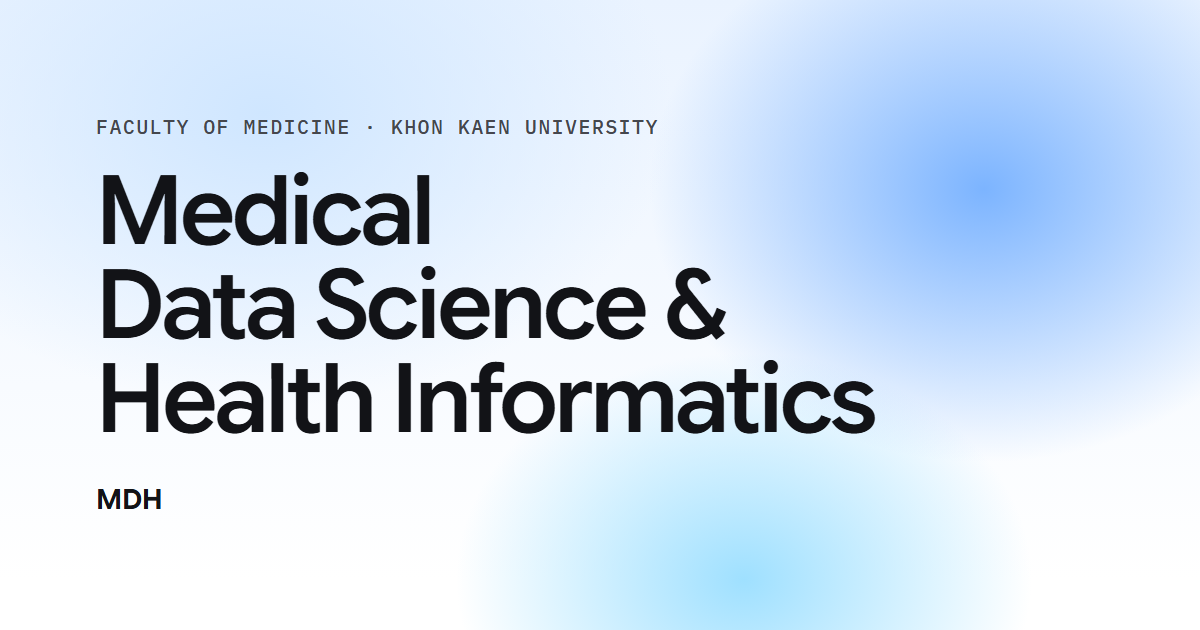
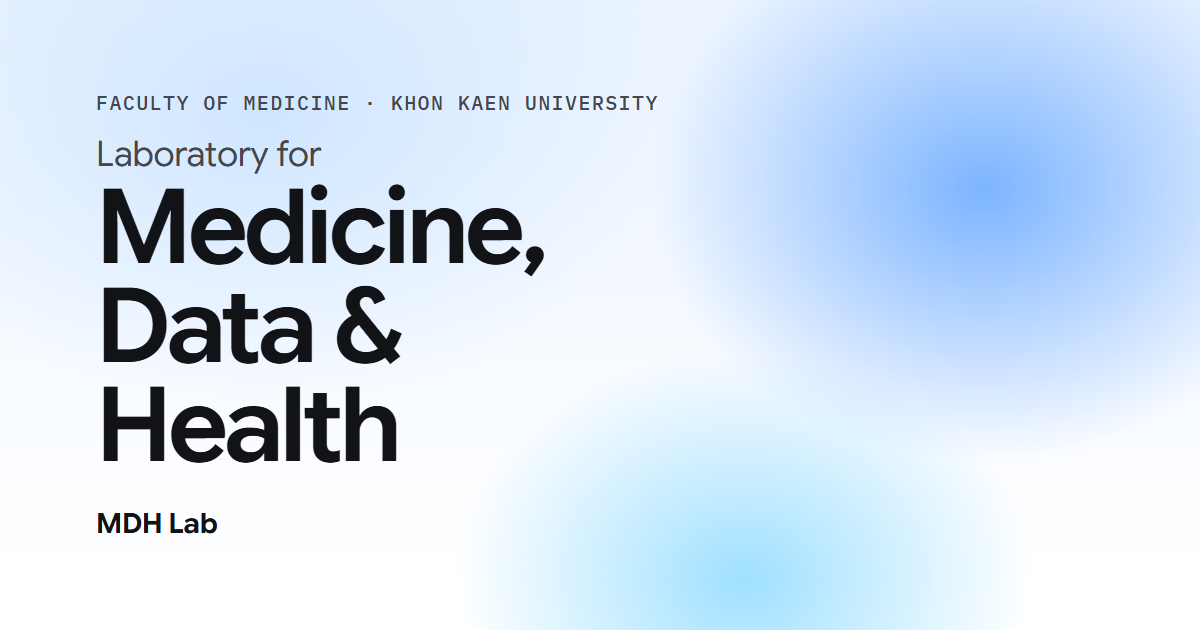
feat: rename to MDH Lab — Laboratory for Medicine, Data & Health

Changed region(s): [[0.0617, 0.1508, 0.74, 0.754], [0.0617, 0.754, 0.185, 0.8444]]

diff --git a/tests/build.test.ts b/tests/build.test.ts
@@ -25,7 +25,12 @@ describe('layout', () => {
     expect(h()).toContain('href="/people/"');
   });
   it('names the institution in the footer', () =>
-    expect(h()).toContain('MDH · Medical Data Science and Health Informatics · Faculty of Medicine, Khon Kaen University, Khon Kaen, Thailand'));
+    expect(h()).toContain('MDH Lab · Laboratory for Medicine, Data &amp; Health · Faculty of Medicine, Khon Kaen University, Khon Kaen, Thailand'));
+  it('uses the lab name in the wordmark and page title', () => {
+    expect(h()).toMatch(/class="wordmark"[^>]*>MDH Lab</);
+    expect(h()).toContain('<title>MDH Lab · Laboratory for Medicine, Data &amp; Health</title>');
+    expect(built('people/index.html')).toContain('<title>People · MDH Lab</title>');
+  });
   it('falls back to Thai fonts', () => {
     for (const f of ['Noto Sans Thai', 'Leelawadee UI', 'Thonburi']) expect(builtCss()).toContain(f);
   });
@@ -52,7 +57,8 @@ describe('home: hero, projects, latest', () => {
   const h = () => built('index.html');
   it('has the full name as the only h1', () => {
     expect(h().match(/<h1[\s>]/g)).toHaveLength(1);
-    expect(h()).toMatch(/<h1[^>]*>\s*Medical Data Science &amp; Health Informatics\s*<\/h1>/);
+    const text = h().match(/<h1[^>]*>([\s\S]*?)<\/h1>/)![1].replace(/<[^>]+>/g, ' ').replace(/\s+/g, ' ').trim();
+    expect(text).toBe('Laboratory for Medicine, Data &amp; Health');
   });
   it('shows four hero photos', () => expect(h().match(/class="[^"]*\bhero-photo\b/g)).toHaveLength(4));
   it('orders projects featured first, then newest', () => {
@@ -92,8 +98,8 @@ describe('home: we work on, in progress, work with us, about', () => {
   });
   it('counts theses', () => expect(h()).toContain('Four theses underway.'));
   it('builds both mailto links', () => {
-    expect(h()).toContain('mailto:lab@example.org?subject=Collaboration%20with%20MDH');
-    expect(h()).toContain('mailto:lab@example.org?subject=Funding%20for%20MDH');
+    expect(h()).toContain('mailto:lab@example.org?subject=Collaboration%20with%20MDH%20Lab');
+    expect(h()).toContain('mailto:lab@example.org?subject=Funding%20for%20MDH%20Lab');
   });
   it('shows the about lead', () =>
     expect(h()).toContain('Four medical students earning an MSc in Data Science and Health Informatics alongside the MD'));

diff --git a/scripts/og.html b/scripts/og.html
@@ -20,13 +20,14 @@
       linear-gradient(180deg, #eaf3ff 0%, #ffffff 92%);
   }
   .label { font: 500 20px "IBM Plex Mono", monospace; letter-spacing: 0.07em; text-transform: uppercase; color: #45474d; }
-  h1 { margin: 24px 0 0; font-size: 96px; font-weight: 560; letter-spacing: -0.035em; line-height: 0.98; }
-  .mark { margin-top: 36px; font-size: 28px; font-weight: 650; letter-spacing: -0.01em; }
+  h1 { margin: 22px 0 0; font-size: 104px; font-weight: 600; letter-spacing: -0.04em; line-height: 0.95; }
+  .pre { display: block; margin-bottom: 0.2em; font-size: 0.34em; font-weight: 400; letter-spacing: -0.01em; color: #45474d; }
+  .mark { margin-top: 30px; font-size: 28px; font-weight: 650; letter-spacing: -0.01em; }
 </style>
 </head>
 <body>
   <div class="label">Faculty of Medicine · Khon Kaen University</div>
-  <h1>Medical<br>Data Science &amp;<br>Health Informatics</h1>
-  <div class="mark">MDH</div>
+  <h1><span class="pre">Laboratory for</span> Medicine,<br>Data &amp;<br>Health</h1>
+  <div class="mark">MDH Lab</div>
 </body>
 </html>

diff --git a/CONTEXT.md b/CONTEXT.md
@@ -1,19 +1,19 @@
-# MDH Website
+# MDH Lab Website
 
-A lab website presenting the MDH Lab (one Cohort, their Advisors, and their work) to Partners.
+A lab website presenting MDH Lab (one Cohort, their Advisors, and their work) to Partners.
 
 ## Lab & degree
 
-**MDH**:
-The Lab's short name, standing for Medical Data Science and Health Informatics.
-_Avoid_: using MDH to mean the degree on the site
+**MDH Lab**:
+The Lab's name: in full, "Laboratory for Medicine, Data & Health".
+_Avoid_: bare "MDH" in site copy (it is also the MSc's admission code and the Minnesota Department of Health), "Medical Data Science and Health Informatics" (the old name)
 
 **Lab**:
-The research group the website presents: one Cohort, shown with their Advisors. Full name "Medical Data Science and Health Informatics"; short name MDH.
+The research group the website presents: one Cohort, shown with their Advisors. Named MDH Lab.
 
 **MSc**:
-KKU Faculty of Medicine's Master of Science in Data Science and Health Informatics (วิทยาศาสตรมหาบัณฑิต สาขาวิทยาการข้อมูลและสารสนเทศสุขภาพ), taken by medical students as a dual degree alongside the MD. 10 seats a year.
-_Avoid_: MDH (that's the Lab), dual-degree track
+KKU Faculty of Medicine's Master of Science in Data Science and Health Informatics (วิทยาศาสตรมหาบัณฑิต สาขาวิทยาการข้อมูลและสารสนเทศสุขภาพ), taken by medical students as a dual degree alongside the MD. 10 seats a year. Its admission codes are MDX-MDH and MD02-MDH.
+_Avoid_: MDH Lab (that's the research group), dual-degree track
 
 **Cohort**:
 The students admitted to the MSc (with the MD) in the same year (รุ่น). The site currently covers one cohort of 9 students.

diff --git a/README.md b/README.md
@@ -1,6 +1,6 @@
-# MDH website
+# MDH Lab website
 
-The website of **MDH: Medical Data Science and Health Informatics**, Faculty of Medicine, Khon Kaen University.
+The website of **MDH Lab: Laboratory for Medicine, Data & Health**, Faculty of Medicine, Khon Kaen University. Its members are medical students earning an MSc in Data Science and Health Informatics alongside the MD.
 
 Every person, advisor, project, update and hero photo is one small file in `src/content/`. The site builds every page from those files, so you never edit the same fact in two places. The build also checks the files: if something required is missing, it stops and tells you which file to fix, so nothing half-finished can go live.
 
